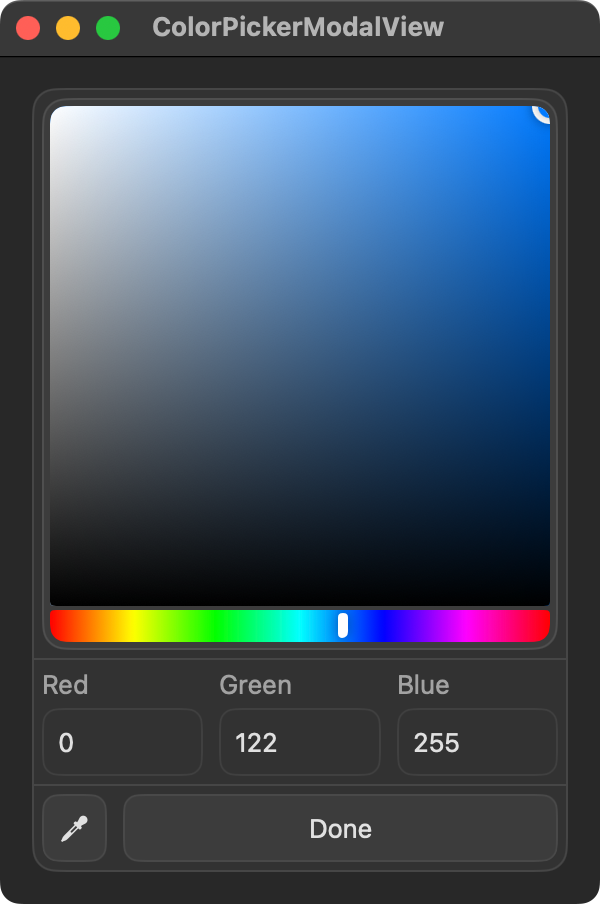
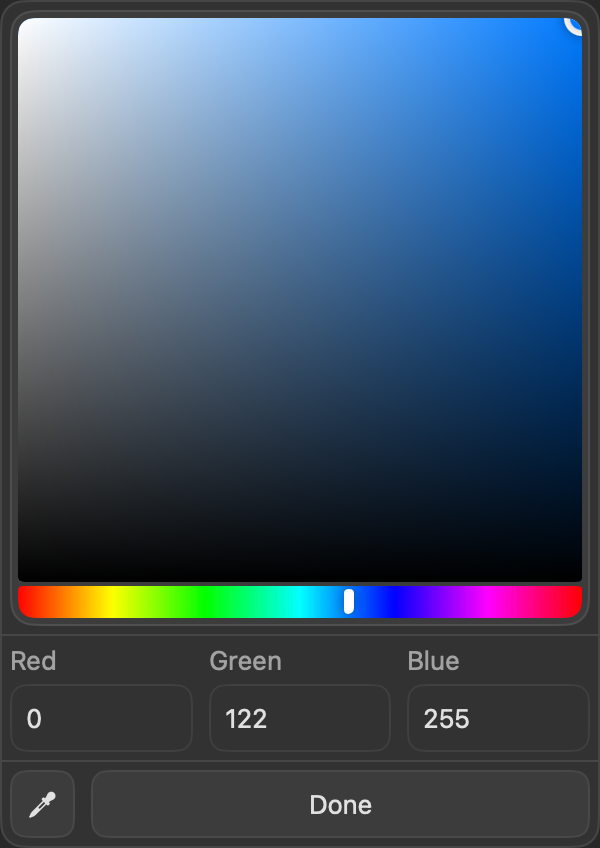
Update docs, rearrange folders

diff --git a/Sources/Luminare/Utilities/StringFormatStyle.swift b/Sources/Luminare/Utilities/StringFormatStyle.swift
@@ -7,11 +7,11 @@
 
 import SwiftUI
 
-/// A `String` format style.
+/// Formats `String` into multiple styles.
 ///
-/// This is presently used in ``LuminareColorPicker`` in a `parseStrategy` to format the hex color string.
+/// This is presently used as a `parseStrategy` parameter in ``LuminareColorPicker`` to format the hex string representing a color.
 ///
-/// See ``HexStrategy`` for more information on how to parse a hex string, or use the `Strategy.identity` strategy as a
+/// See ``HexStrategy`` for more information on how to parse a hex string, or use the `Strategy.identity` as a
 /// passthrough.
 ///
 /// ## Topics
@@ -44,22 +44,41 @@ public struct StringFormatStyle: Codable, Equatable, Hashable, ParseableFormatSt
     public enum HexStrategy: Codable, Equatable, Hashable, ParseStrategy {
         public typealias ParseInput = String
         public typealias ParseOutput = String
-        public typealias Lowercased = Bool
 
-        /// `#42ab0E` parses to `42ab0e`.
+        /// A lowercased style without any prefixes.
+        ///
+        /// - Parses `#42ab0E` to `42ab0e`.
+        /// - Parses `42AB0E` to `42ab0e`.
         case lowercased
 
-        /// `#42ab0E` parses to `42AB0E`.
+        /// An uppercased style without any prefixes.
+        ///
+        /// - Parses `#42ab0E` to `42AB0E`.
+        /// - Parses `42ab0e` to `42AB0E`.
         case uppercased
 
-        /// `42ab0E` parses to `#42ab0e`.
+        /// A lowercased style prefixed with `#`.
+        ///
+        /// - Parses `42ab0E` to `#42ab0e`.
+        /// - Parses `#42AB0E` to `#42ab0e`.
         case lowercasedWithWell
 
-        /// `42ab0E` parses to `#42AB0E`.
+        /// An uppercased style prefixed with `#`.
+        ///
+        /// - Parses `42ab0E` to `#42AB0E`.
+        /// - Parses `#42ab0e` to `#42AB0E`.
         case uppercasedWithWell
 
-        /// customized case and prefix characters.
-        case custom(Lowercased, String)
+        /// A style with customized text case and prefix.
+        ///
+        /// ## Examples
+        ///
+        /// - `.custom(.lowercased, "$")`
+        ///     - Parses `#42AB0E` to `$42ab0e`.
+        ///
+        /// - `.custom(.uppercased, "@@")`
+        ///     - Parses `#42ab0e` to `@@42AB0E`.
+        case custom(TextCase, String)
 
         /// Parse a hex value using a specified strategy.
         /// - Parameter value: The hex value to parse.
@@ -67,17 +86,24 @@ public struct StringFormatStyle: Codable, Equatable, Hashable, ParseableFormatSt
         public func parse(_ value: String) throws -> String {
             switch self {
             case .lowercased:
-                value.lowercased()
+                return value.lowercased()
                     .replacing(#/[^a-f0-9]/#, with: "")
             case .uppercased:
-                value.uppercased()
+                return value.uppercased()
                     .replacing(#/[^A-F0-9]/#, with: "")
             case .lowercasedWithWell:
-                try "#" + Self.lowercased.parse(value)
+                return try "#" + Self.lowercased.parse(value)
             case .uppercasedWithWell:
-                try "#" + Self.uppercased.parse(value)
-            case .custom(let lowercased, let prefix):
-                try prefix + (lowercased ? Self.lowercased : Self.uppercased).parse(value)
+                return try "#" + Self.uppercased.parse(value)
+            case .custom(let textCase, let prefix):
+                let branch = switch textCase {
+                case .uppercase:
+                    Self.uppercased
+                case .lowercase:
+                    Self.lowercased
+                }
+
+                return try prefix + branch.parse(value)
             }
         }
     }
@@ -90,4 +116,12 @@ public struct StringFormatStyle: Codable, Equatable, Hashable, ParseableFormatSt
             return value
         }
     }
+}
+
+/// Represents a text case.
+public enum TextCase: String, Equatable, Hashable, Codable {
+    /// The uppercase.
+    case uppercase
+    /// The lowercase.
+    case lowercase
 }

diff --git a/Sources/Luminare/Components/Color Picker/LuminareColorPicker.swift b/Sources/Luminare/Components/Color Picker/LuminareColorPicker.swift
@@ -170,32 +170,28 @@ where R: View, G: View, B: View,
     }
 }
 
-// MARK: - Preview
-
-private struct ColorPickerPreview<F>: View
-where F: ParseableFormatStyle, F.FormatInput == String, F.FormatOutput == String {
-    let format: F
-    @State var color: Color = .accentColor
-
-    var body: some View {
-        LuminareColorPicker(
-            "Done",
-            color: $color,
-            format: format,
-            colorNames: .init {
-                Text("Red")
-            } green: {
-                Text("Green")
-            } blue: {
-                Text("Blue")
-            }
-        )
-    }
-}
+// MARK: - Previews
 
 // preview as app
-#Preview("LuminareColorPicker") {
-    ColorPickerPreview(format: StringFormatStyle(parseStrategy: .hex(.custom(true, "#"))))
+@available(macOS 15.0, *)
+#Preview(
+    "LuminareColorPicker",
+    traits: .sizeThatFitsLayout
+) {
+    @Previewable @State var color: Color = .accentColor
+
+    LuminareColorPicker(
+        "Done",
+        color: $color,
+        format: StringFormatStyle(parseStrategy: .hex(.lowercasedWithWell)),
+        colorNames: .init {
+            Text("Red")
+        } green: {
+            Text("Green")
+        } blue: {
+            Text("Blue")
+        }
+    )
     .monospaced()
-    .padding()
+    .frame(width: 300)
 }

diff --git a/Sources/Luminare/Components/Color Picker/ColorHueSliderView.swift b/Sources/Luminare/Components/Color Picker/ColorHueSliderView.swift
@@ -44,11 +44,14 @@ struct ColorHueSliderView: View {
                     endPoint: .trailing
                 )
 
+                let leadingCornerRadius = selectionOffset < (geo.size.width / 2) ? selectionCornerRadius : 2
+                let trailingCornerRadius = selectionOffset > (geo.size.width / 2) ? selectionCornerRadius : 2
+
                 UnevenRoundedRectangle(
-                    topLeadingRadius: roundTop ? (selectionOffset < (geo.size.width / 2) ? selectionCornerRadius : 2) : 2,
-                    bottomLeadingRadius: roundBottom ? (selectionOffset < (geo.size.width / 2) ? selectionCornerRadius : 2) : 2,
-                    bottomTrailingRadius: roundBottom ? (selectionOffset > (geo.size.width / 2) ? selectionCornerRadius : 2) : 2,
-                    topTrailingRadius: roundTop ? (selectionOffset > (geo.size.width / 2) ? selectionCornerRadius : 2) : 2
+                    topLeadingRadius: roundTop ? leadingCornerRadius : 2,
+                    bottomLeadingRadius: roundBottom ? leadingCornerRadius : 2,
+                    bottomTrailingRadius: roundBottom ? trailingCornerRadius : 2,
+                    topTrailingRadius: roundTop ? trailingCornerRadius : 2
                 )
                 .frame(width: selectionWidth, height: 12.5)
                 .padding(.bottom, 0.5)

diff --git a/Sources/Luminare/Components/Color Picker/ColorPickerModalView.swift b/Sources/Luminare/Components/Color Picker/ColorPickerModalView.swift
@@ -178,7 +178,10 @@ struct ColorPickerModalView<R, G, B, Done>: View where R: View, G: View, B: View
 // MARK: - Preview
 
 @available(macOS 15.0, *)
-#Preview("ColorPickerModalView") {
+#Preview(
+    "ColorPickerModalView",
+    traits: .sizeThatFitsLayout
+) {
     @Previewable @State var color: HSBColor = Color.accentColor.hsb
     @Previewable @State var hexColor: String = ""
 
@@ -197,6 +200,5 @@ struct ColorPickerModalView<R, G, B, Done>: View where R: View, G: View, B: View
             Text("Done")
         }
     }
-    .padding()
     .frame(width: 300)
 }

diff --git a/Sources/Luminare/Components/LuminareStepper.swift b/Sources/Luminare/Components/LuminareStepper.swift
@@ -635,7 +635,7 @@ public struct LuminareStepper<V>: View where V: Strideable & BinaryFloatingPoint
                         } else {
                             offset
                         }
-                        
+
                         let valueOffset = V(correctedOffset) * source.stride
                         internalValue = source.offsetBy(
                             roundedValue,

diff --git a/Sources/Luminare/Utilities/Extensions/Color+Extensions.swift b/Sources/Luminare/Utilities/Extensions/Color+Extensions.swift
@@ -115,7 +115,7 @@ extension Color {
             nsColor.getRed(&red, green: &green, blue: &blue, alpha: &alpha)
             return (red, green, blue, alpha)
         }
-        
+
         set {
             self = .init(red: newValue.red, green: newValue.green, blue: newValue.blue, opacity: newValue.opacity)
         }

diff --git a/Sources/Luminare/Main Window/Sidebar/LuminareSidebarSection.swift b/Sources/Luminare/Main Window/Sidebar/LuminareSidebarSection.swift
@@ -90,7 +90,7 @@ public struct LuminareSidebarSection<Label, Tab>: View where Label: View, Tab: L
     }
 }
 
-// MARK: - Previews
+// MARK: - Preview
 
 private enum Tab: LuminareTabItem, CaseIterable, Identifiable {
     case lorem

diff --git a/Sources/Luminare/Main Window/Sidebar/LuminareSidebarTab.swift b/Sources/Luminare/Main Window/Sidebar/LuminareSidebarTab.swift
@@ -116,7 +116,7 @@ struct SidebarButtonStyle: ButtonStyle {
     }
 }
 
-// MARK: - Previews
+// MARK: - Preview
 
 private enum Tab: LuminareTabItem, CaseIterable, Identifiable {
     case about

diff --git a/Sources/Luminare/Main Window/Sidebar/LuminareSidebar.swift b/Sources/Luminare/Main Window/Sidebar/LuminareSidebar.swift
@@ -33,7 +33,7 @@ public struct LuminareSidebar<Content>: View where Content: View {
     }
 }
 
-// MARK: - Previews
+// MARK: - Preview
 
 @available(macOS 15.0, *)
 #Preview(
